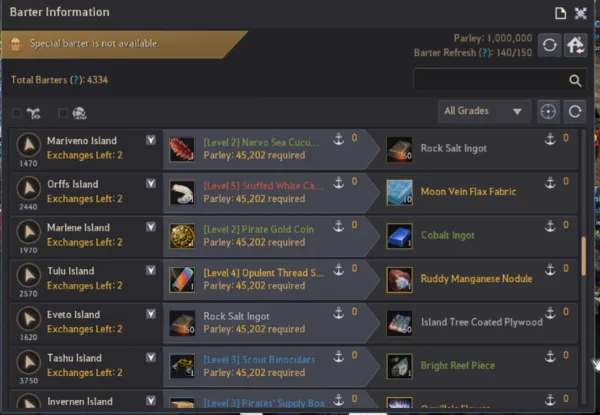
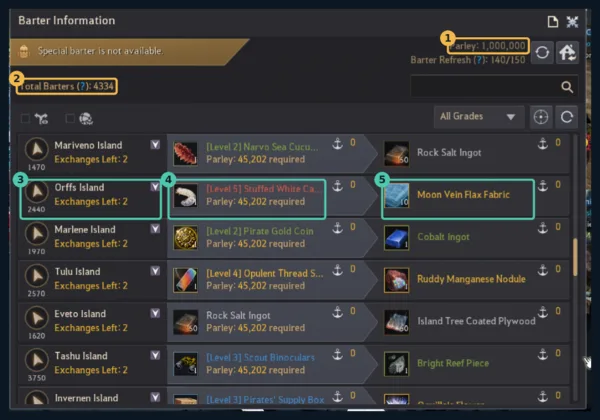
The screenshot help outlines what the reader reads on the game's window -- Parley and Total Barters in the head, and a row's island, give and pay -- numbered, with a key beside; a shot cropped to the rows is shown too, for trade goods and for materials, since it reads the same and only misses the he

Changed region(s): [[0.0, 0.0, 1.0, 1.0], [0.72, 0.2313, 0.81, 0.2892]]

diff --git a/js/barter-import.js b/js/barter-import.js
@@ -45,6 +45,34 @@ const shotLang = () => {
 	return langByTag[fromApp] ? fromApp : DEFAULT_LANG;
 };
 
+/**
+ * What the reader reads, drawn on the game's own window: the whole
+ * window with its head, the same rows cropped, and what the numbered
+ * boxes are. `list` is 'trade' or 'material' -- one window, the rows
+ * sorted by what they pay -- and `lazy` is for a page that draws it
+ * folded away.
+ */
+export function shotGuideHTML(list = 'trade', { lazy = false } = {}) {
+	const mat = list === 'material';
+	const l = lazy ? ' loading="lazy"' : '';
+	const key = (n, cls, text) => `<li><i class="shot-key ${cls}">${n}</i><span>${text}</span></li>`;
+	return `<div class="mat-help-figs">
+		<figure class="mat-help-fig"><img src="guide/${mat ? 'material-page' : 'barter-window'}.webp" alt="${T('The Barter Information window, the parts the app reads outlined')}"${l} width="600" height="${mat ? 420 : 417}">
+			<figcaption>${mat
+		? T('The whole Barter Information window — the same window as for trade goods. The rows paying ship materials go to the material list.')
+		: T('The whole Barter Information window. A few rows are enough to find the layout; scroll and shoot again for more. A full-screen shot works too.')}</figcaption></figure>
+		<figure class="mat-help-fig"><img src="guide/${mat ? 'material' : 'barter'}-cropped.webp" alt="${T('The same rows, cropped out of the window')}"${l} width="560" height="${mat ? 263 : 266}">
+			<figcaption>${T('Cropped to the rows works too: every row is read the same. Only the head’s two figures are missed, and those can be typed in.')}</figcaption></figure>
+	</div>
+	<ol class="shot-keys">
+		${key(1, 'at-head', T('<b>Parley</b> — the bar you hold, written in for the run'))}
+		${key(2, 'at-head', T('<b>Total Barters</b> — opens the islands and exchanges your count allows'))}
+		${key(3, 'at-row', T('<b>The island</b>, at the start of each row'))}
+		${key(4, 'at-row', T('<b>What it takes</b> — a name cut short with “…” is enough'))}
+		${key(5, 'at-row', T('<b>What it pays</b> — which is how a row is sorted into the trade goods or the ship material list'))}
+	</ol>`;
+}
+
 export function openBarterImport({ deals, onAnswers = () => {}, files = null, guide = '' } = {}) {
 	let stop = null;
 	let rows = [];            // what was read: { isle, offer, near, keep }
@@ -70,12 +98,8 @@ export function openBarterImport({ deals, onAnswers = () => {}, files = null, gu
 	const pickView = () => `
 		${guide === 'material-whole' ? `<figure class="mat-help-fig"><img src="guide/material-scroll.webp" alt="${T('Three screenshots of the whole window, the list scrolled between each')}" width="1000" height="245">
 			<figcaption>${T('A board the book does not know: shoot the whole window, scroll the list down, shoot again, to the end — then drop or paste them all here together. A row on two shots is read once.')}</figcaption></figure>`
-		: guide === 'material' ? `<figure class="mat-help-fig"><img src="guide/material-page.webp" alt="${T('The Barter Information window showing ship material rows')}" width="600" height="415">
-			<figcaption>${T('Like this: the whole Barter Information window, the same window as for trade goods — its head gives your Parley and Total Barters, and the rows paying ship materials go to the material list. One page is enough to start; for a board the book does not know, shoot every page down to the end of the list and drop them all here together.')}</figcaption></figure>`
-		: `<figure class="mat-help-fig"><img src="guide/barter-window.webp" alt="${T('The Barter Information window in game')}" width="600" height="412">
-			<figcaption>${T('Like this: the Barter Information window, head and rows. Scroll it and shoot again for more of the board — several at a time is the point, and the rows add up.')}</figcaption></figure>`}
+		: shotGuideHTML(guide === 'material' ? 'material' : 'trade')}
 		<ul class="shot-kinds">
-			<li>${T('<b>What is read</b> — the island at the start of each row, what it takes and what it pays. A name the window cut short is enough.')}</li>
 			<li>${T('<b>What it is read against</b> — the exchanges the codex says that island deals, so a row is never a guess at a spelling.')}</li>
 		</ul>
 		${langPick()}

diff --git a/js/screen-barter.js b/js/screen-barter.js
@@ -40,7 +40,7 @@ import { parleyLedger, VOUCHER_COOLDOWN_MIN } from './parley-ledger.js';
 
 const VOUCHER = "Crow's Trade Voucher";
 import { exchanges, goodsHeld, landHeld, weightOf, sellOf, aboardStock as aboardOf } from './barter-plan.js';
-import { openBarterImport } from './barter-import.js';
+import { openBarterImport, shotGuideHTML } from './barter-import.js';
 import { imagesOn } from './shot-reader.js';
 import { openLayoutBook } from './layouts-view.js';
 import { driftOf } from './layout-book.js';
@@ -5104,15 +5104,13 @@ function matStage() {
 function tradeShotHelp() {
 	return `<details class="mat-help">
 		<summary>${T('What should the screenshot look like?')}</summary>
+		${shotGuideHTML('trade', { lazy: true })}
 		<div class="mat-help-figs">
-			<figure class="mat-help-fig"><img src="guide/barter-window.webp" alt="${T('The Barter Information window in game')}" loading="lazy" width="600" height="412">
-				<figcaption>${T('The Barter Information window, whole: its head holds your Parley and Total Barters, and each row an island, what it takes and what it pays. A few rows are enough to find the layout; scroll and shoot again for more. A full-screen shot works too.')}</figcaption></figure>
 			<figure class="mat-help-fig narrow"><img src="guide/refresh-trade.webp" alt="${T('The game’s refresh window, the trade item refreshes outlined')}" loading="lazy" width="487" height="629">
 				<figcaption>${T('Silver, a stock and Crow Coins are all dealt from the trade goods list: the one the Trade Item Barter Refresh redraws.')}</figcaption></figure>
 		</div>
 		<ul class="mat-help-list">
 			<li>${T('Any of the game’s languages: pick yours in the reader, and the rows are matched against the game’s own names in it.')}</li>
-			<li>${T('A name cut short with “…” is enough.')}</li>
 			<li>${T('Nothing is uploaded: the pictures are read in this browser.')}</li>
 		</ul>
 	</details>`;
@@ -5122,9 +5120,8 @@ function tradeShotHelp() {
 function matShotHelp(open = false, scroll = false) {
 	return `<details class="mat-help"${open ? ' open' : ''}>
 		<summary>${T('What should the screenshot look like?')}</summary>
+		${shotGuideHTML('material', { lazy: true })}
 		<div class="mat-help-figs">
-			<figure class="mat-help-fig"><img src="guide/material-page.webp" alt="${T('The Barter Information window showing ship material rows')}" loading="lazy" width="600" height="415">
-				<figcaption>${T('The same Barter Information window as for trade goods, whole: its head gives your Parley and Total Barters, and each row an island, what it takes and what it pays — the rows paying ship materials go to this list. A full-screen shot works too.')}</figcaption></figure>
 			<figure class="mat-help-fig narrow"><img src="guide/refresh-material.webp" alt="${T('The game’s refresh window, the ship material refreshes outlined')}" loading="lazy" width="487" height="629">
 				<figcaption>${T('The material list is its own list, redrawn by the Ship Material Refresh — apart from the trade goods, so its board changes on its own clock.')}</figcaption></figure>
 		</div>
@@ -5132,7 +5129,6 @@ function matShotHelp(open = false, scroll = false) {
 			<figcaption>${T('The list is longer than the window: shoot the whole window, scroll the list down, shoot again, to the end. A row on two shots is fine — it is read once. Paste or drop them all at once.')}</figcaption></figure>` : ''}
 		<ul class="mat-help-list">
 			<li>${T('Any of the game’s languages: pick yours in the reader, and the rows are matched against the game’s own names in it.')}</li>
-			<li>${T('A name cut short with “…” is enough.')}</li>
 			<li>${T('Nothing is uploaded: the pictures are read in this browser. Only what you choose to tell the fleet leaves it.')}</li>
 		</ul>
 	</details>`;

diff --git a/css/tracker-barter.css b/css/tracker-barter.css
@@ -817,6 +817,13 @@ ul.lb-readers.flat { margin: 0 0 12px; }
 .mat-help-figs .mat-help-fig.narrow { flex: 0 1 240px; }
 .mat-help-fig img { display: block; max-width: 100%; height: auto; border-radius: 8px; border: 1px solid var(--line); }
 .mat-help-fig figcaption { margin-top: 5px; font-size: 12px; line-height: 1.45; color: var(--ink-mute); max-width: 80ch; }
+.shot-keys { display: flex; flex-wrap: wrap; gap: 4px 16px; margin: 2px 0 8px; padding: 0; list-style: none; font-size: 12px; color: var(--ink-dim); }
+.shot-keys li { display: flex; align-items: flex-start; gap: 6px; }
+.shot-keys li > span { line-height: 18px; }
+.shot-keys b { color: var(--ink-hi); }
+.shot-key { flex: none; display: grid; place-items: center; width: 18px; height: 18px; font-style: normal; font-size: 11px; font-weight: 700; border-radius: 50%; color: #10202e; }
+.shot-key.at-head { background: #f2b84b; }
+.shot-key.at-row { background: #4ec9ae; }
 .mat-help-list { margin: 4px 0 0; padding-left: 18px; line-height: 1.6; color: var(--ink-mute); }
 @media (max-width: 720px) {
   .mat-step { padding: 6px 7px; gap: 6px; }
